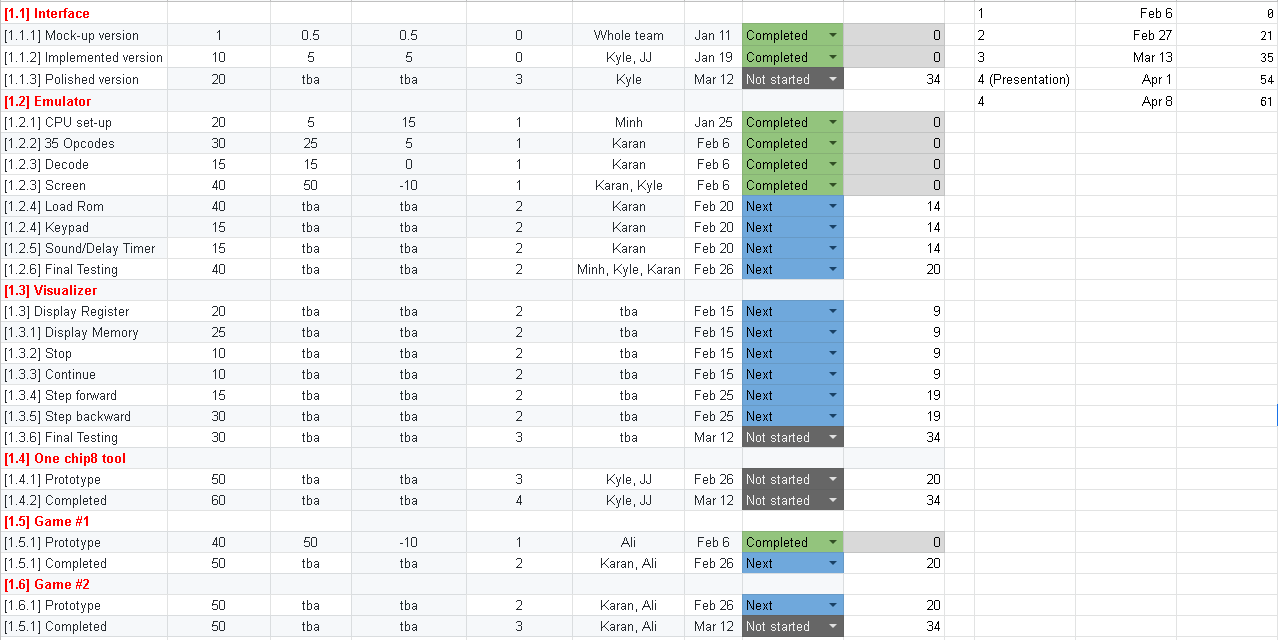
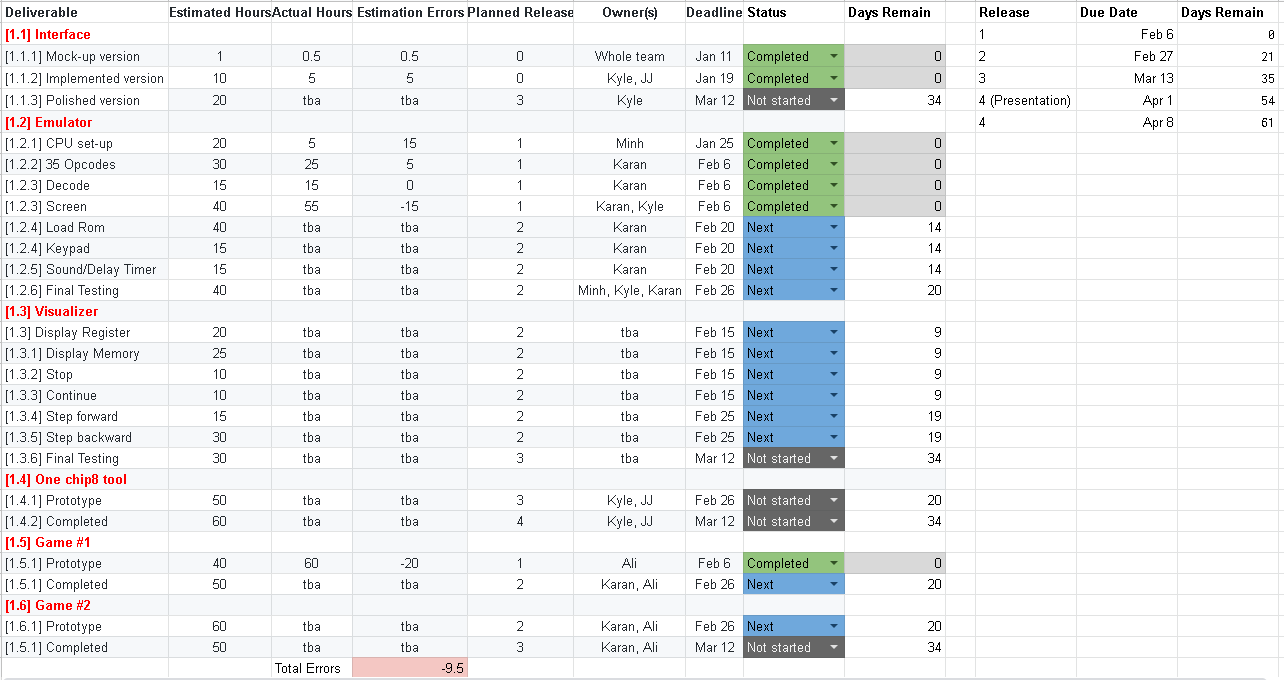
updated doc

diff --git a/Product_Document.md b/Product_Document.md
@@ -7,7 +7,7 @@
 1. Chip8 **Emulator** can run any Chip8 program.
 2. Chip8 **Visualizer** shows a Chip8 program in action. It displays memory, registers and instructions being executed. It lets users pause and step-forward/step-backward one instruction at a time.
 3. One Chip8 **Tool**: *to be announced*. The goal is to build a Chip8 program that is useful to the intended users of the Chip8 emulator.  
-4. Two Chip8 **Games**:  Game 1: Space War; Game 2: *to be announced*. The games are written in Chip8 language. They should be polished. Code reuse with proper citation are allowed but the majority (90% of code lines) should be written by the team.
+4. Two Chip8 **Games**:  Game 1: `Space War`; Game 2: `Helibird`. The games are written in Chip8 language. They should be polished. Code reuse with proper citation are allowed but the majority (90% of code lines) should be written by the team.
 
 ## Project organization
 
@@ -39,8 +39,8 @@ Note: The 6th member, Xinyue Ma has been recently added to the team on January 1
 
 - CPU set-up: at the beginning or when the emulator resets, the memory, stack, registers will have some default values. 
 - 35 Opcodes: correctly implement 35 opcodes based on the specifications in [Cowgod's chip8 reference](http://devernay.free.fr/hacks/chip8/C8TECH10.HTM), according to Cowgod, opcode `0nnn` is only used on old computers and is ignored by modern interpreters so we don't implement it.
-- Decode opcode: **TODO**
-- Screen: **TODO** 
+- Decode opcode: **KARAN TODO**
+- Screen: **KARAN TODO** 
 - Prototype of game 1: User playing against a computer AI. Two spaceships shooting at each other with a destroyable barrier in the middle. This game will have levels and points, and can be played through multiple rounds against the AI. The game is based on the famous arcade game ‘Outlaw’, with tweaks made to it, such as levels, and points. 
     - Actors:
         - User
@@ -65,17 +65,18 @@ Note: The 6th member, Xinyue Ma has been recently added to the team on January 1
 
 **UPDATED: For Release 2, these following use cases are scheduled to be delivered**:
 
-- Emulator: ROM loading, Keyboard input and Sound/Delay timer 
-- Visualizer: Stop, Continue, Step forward, Step Backward, Display of register, memory, and instructions while a program is being executed. 
-- Game 1 Complete: Fully functioning game 
-- Game 2 Prototype: Helibird
-
-- Input/Output/Sound Implementation: The system gives buzzer sounds whenever the sound timer reaches zero. The 16-key keyboard used for input will be mapped to the computer keyboard and will also be displayed on the web page according to the following mapping:
+- Emulator 
+    - ROM loading: 
+    - Keyboard input: The 16-key keyboard used for input will be mapped to the computer keyboard and will also be displayed on the web page according to the following mapping:
 
     1	2	3	C  ------>		1	2	3	4 <br>
     4	5	6	D  ------>	    Q	W	E	R <br>
     7	8	9	E  ------>		A	S	D	F <br>
     A	0	B	F  ------>		Z	X	C	V <br>
+    - Sound/Delay timer:  
+- Visualizer: Stop, Continue, Step forward, Step Backward, Display of register, memory, and instructions while a program is being executed. 
+- Game 1 Complete: Fully functioning game 
+- Game 2 Prototype: Helibird
 
 ### Communication Plan 
 
@@ -119,17 +120,21 @@ NO-SHOW RULE: For pre-scheduled meetings (either in person or voice call), if a 
 
 The work breakdown and project schedule below are tentative and will be update after each iteration. We used the rule of thumb introduced in class: (informal estimate of time) * 3 to calculate the Estimated Efforts (hours). 
 
-**UPDATED**: **Febuary 5, 2018**: Started using Google Spreadsheet for Work Breakdown which allows easier replainning for future releases. 
+**UPDATED**: **February 5, 2018**: Started using Google Spreadsheet for Work Breakdown which allows easier replanning for future releases. 
 
 [Link to Work Breakdown Spreadsheet](https://docs.google.com/spreadsheets/d/1HqADerMmskoAKjknKuDWZFQrG6OZgpwF0acj79XQYGA/edit?usp=sharing) 
 
-Bellow is a snapshoot of out current Work Breakdown Spreadsheet, taken on Febuary 5, 2018:
+**UPDATED**: **February 6, 2018**: Bellow is a snapshot of out current Work Breakdown Spreadsheet, taken on February 6, 2018.  
 
 ![WBS example](WBS.PNG)
 
+For Release 1, we underestimated the number of hours needed for some deliverables and overestimated the number of hours needed for other deliverables, the net effect is a underestimation of 9.5 hours (6%). We increased the estimated effort hours for all remaining deliverable by 6% and ask members to track their hours more carefully in future releases. 
+
+As we implementing the emulator, we also adding new deliverables and modify existing deliverables. For example, instead of splitting the opcodes into between 2 releases, we decided to implement all of them in release 1 so that we can test any chip 8 program on our emulator. We also divided the emulator into more concrete subtasks such as: screen implementation and automate the room loading. We will continue updating this Work Breakdown for upcoming releases. 
+
 ## Project schedule
 
-The due dates of major deliverables are shown in the table above. Detailed scheduling, progress tracking and updates are done using Kanban Board via [Trello](https://trello.com). **UPDATED Febuary 5**: An example for release 1 is shown below:
+The due dates of major deliverables are shown in the table above. Detailed scheduling, progress tracking and updates are done using Kanban Board via [Trello](https://trello.com). **UPDATED February 5**: An example for release 1 is shown below:
 
 ![Trello example](trello_example.PNG)
 
